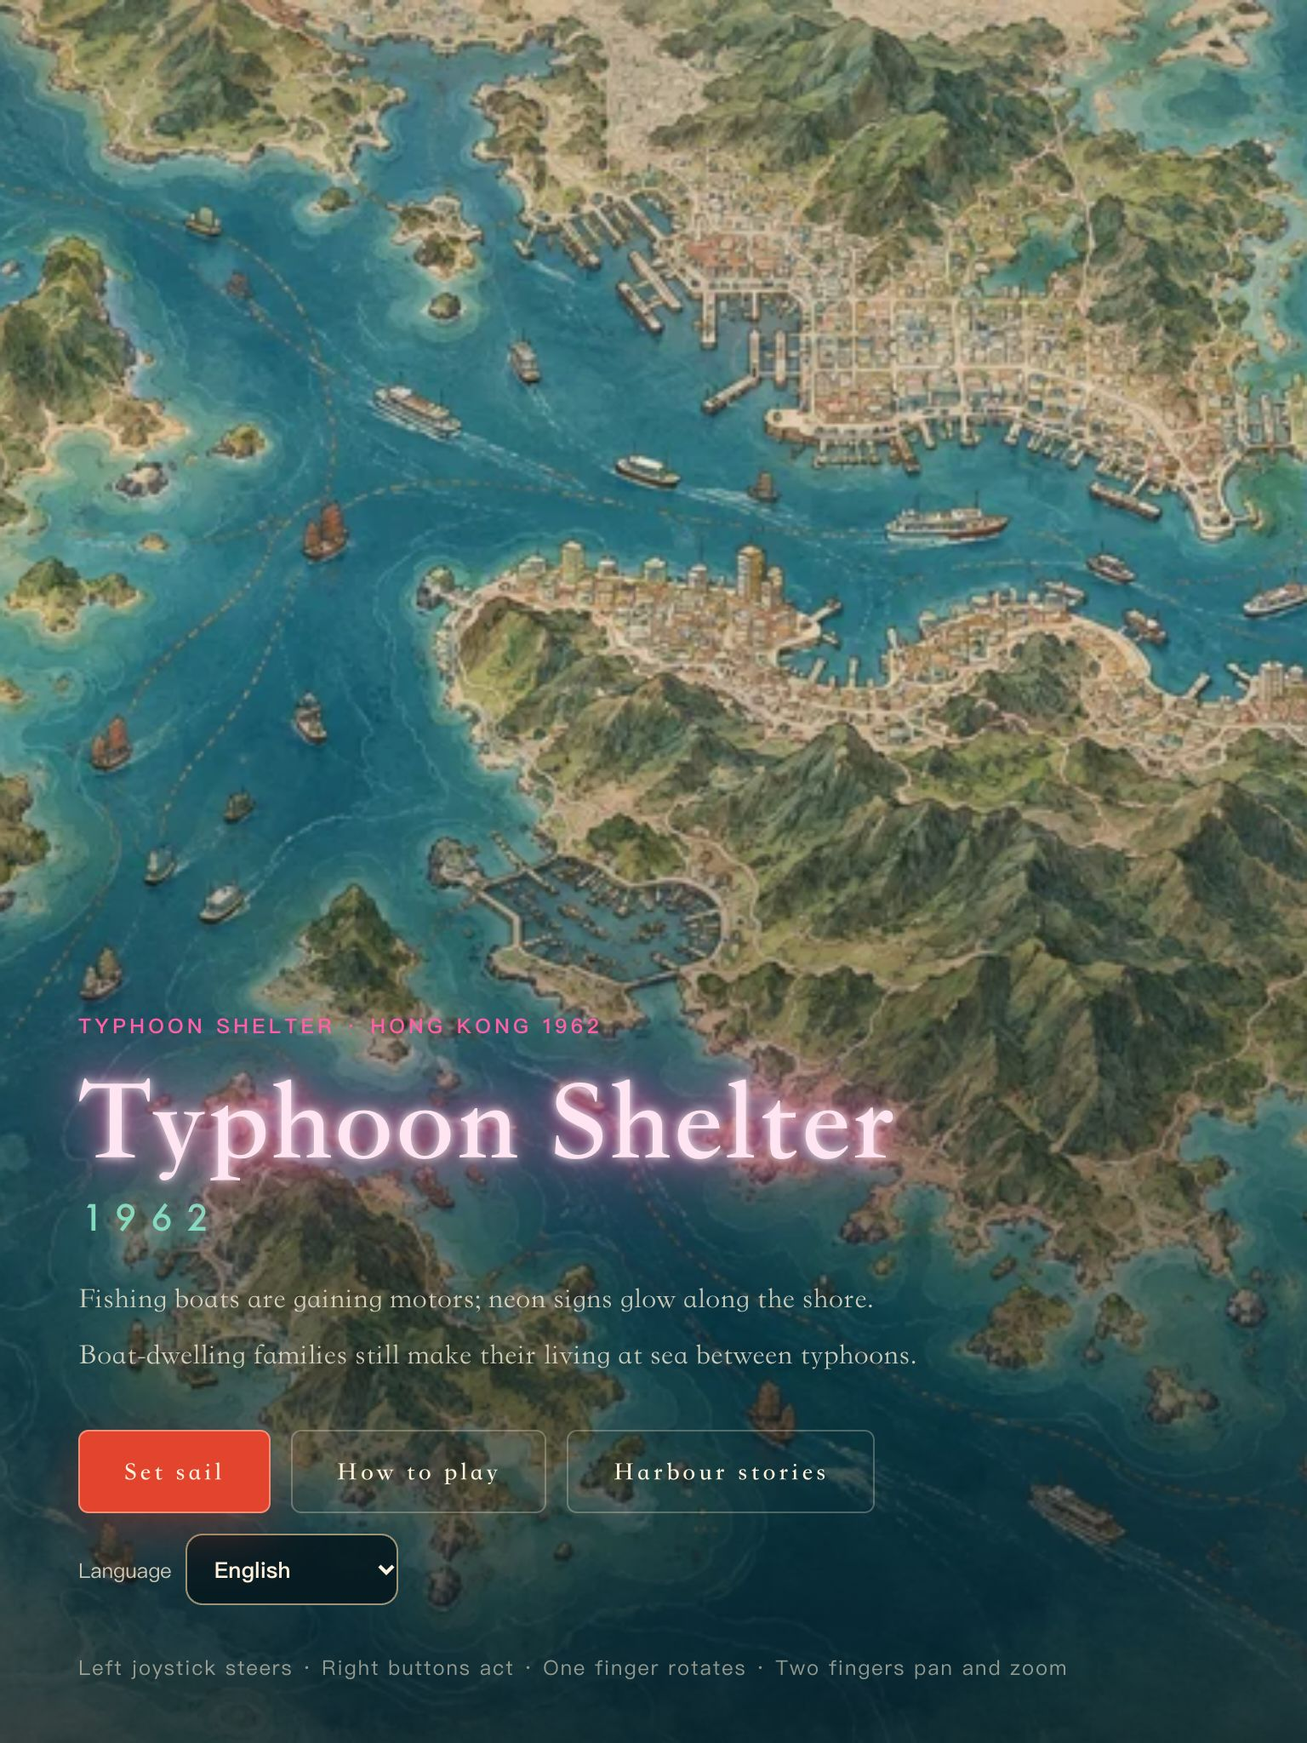
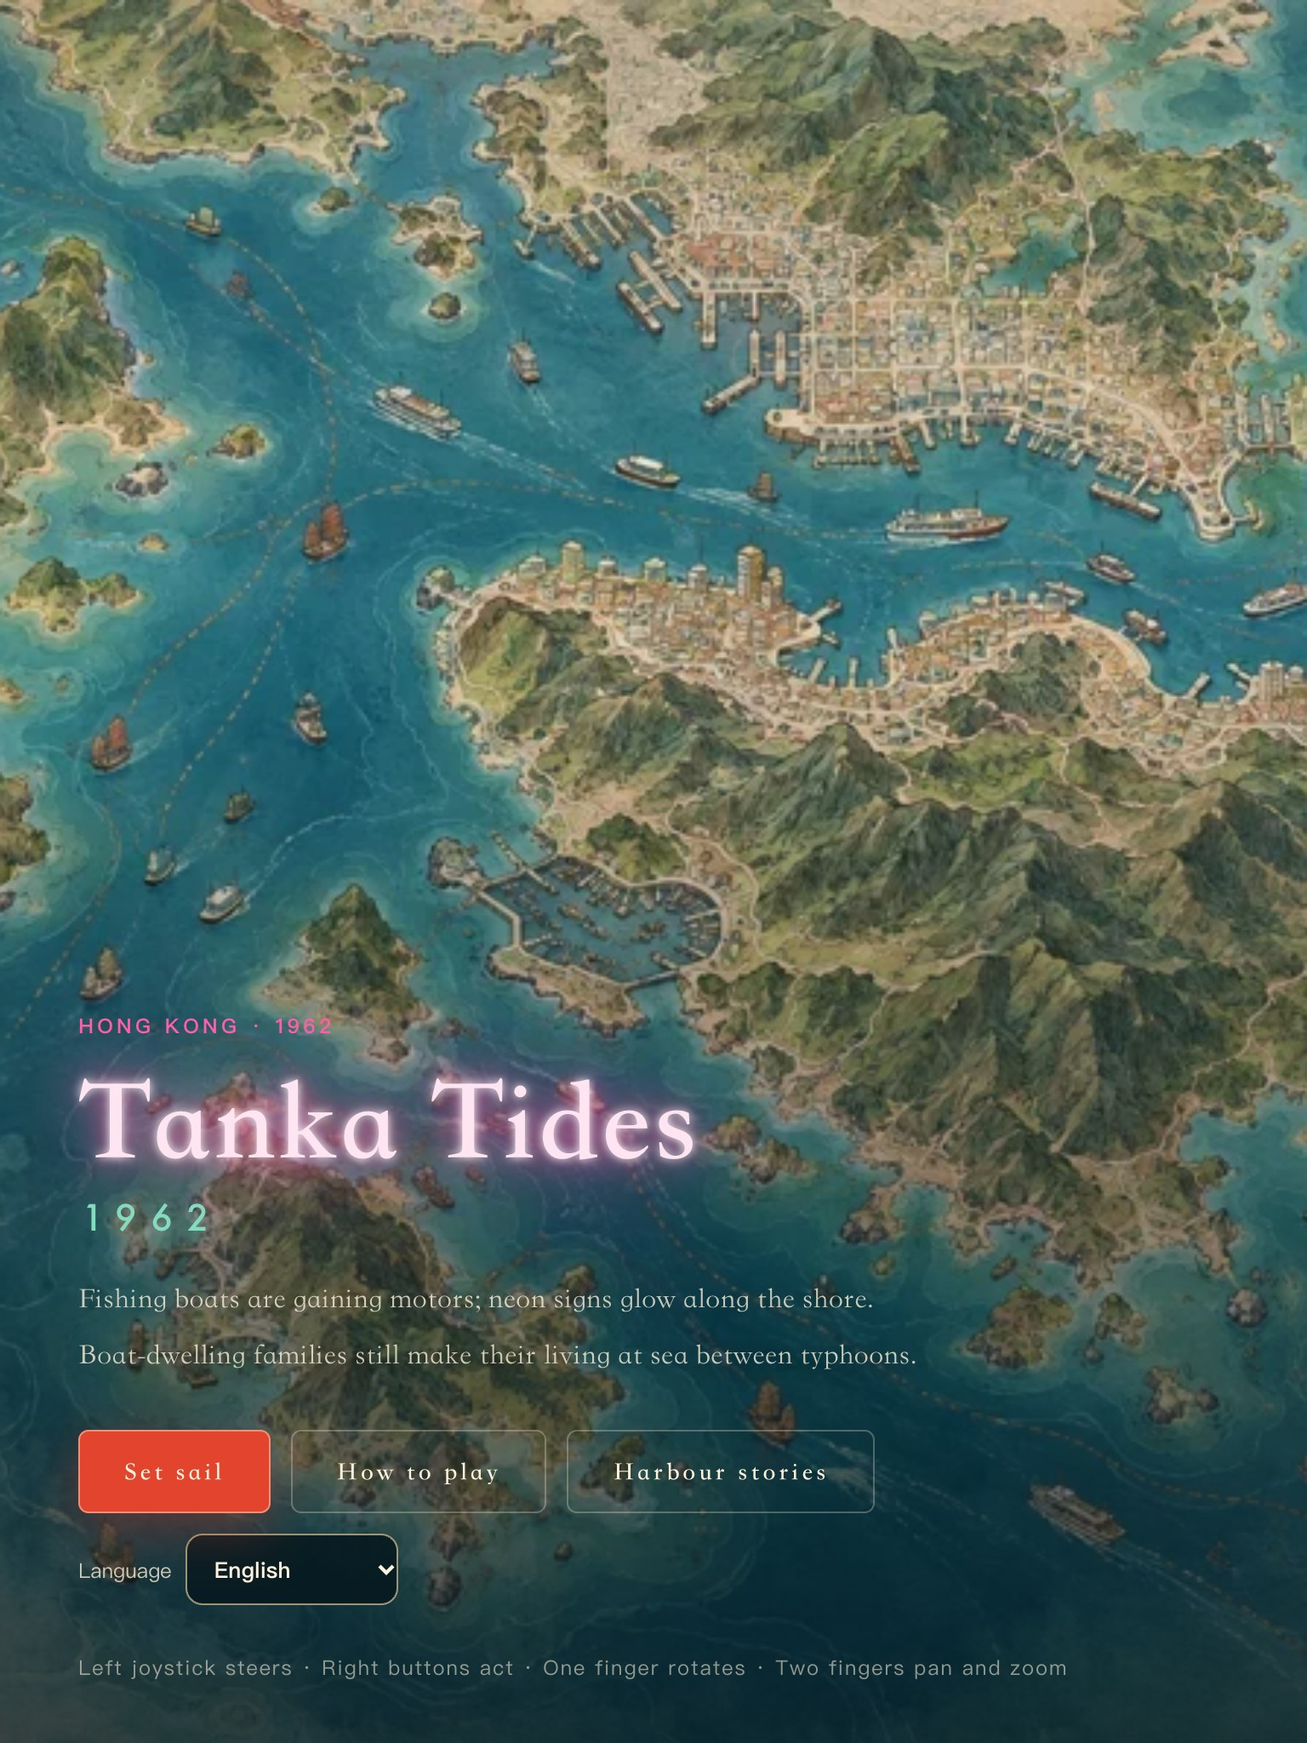
update the website

Changed region(s): [[0.0938, 0.5625, 0.6875, 0.6875], [0.0625, 0.5625, 0.25, 0.5938]]

diff --git a/index.html b/index.html
@@ -15,6 +15,7 @@
   <a class="brand" href="#top" aria-label="Tanka Tides 1962 home"><svg viewBox="0 0 64 64" aria-hidden="true"><rect width="64" height="64" rx="14" fill="#102226"/><path d="M6 46c10-6 18-6 26 0s16 6 26 0v10H6z" fill="#08262a"/><path d="M16 42h32l-4 6H20z" fill="#d8b07a"/><path d="M26 42l6-7 6 7" fill="#4f6e5e"/><rect x="30" y="16" width="3" height="16" rx="1" fill="none" stroke="#ff5fa8" stroke-width="2"/></svg>Tanka Tides 1962</a>
   <nav class="nav-links" aria-label="Page">
     <a href="#play">Play</a>
+    <a href="#faces">Faces</a>
     <a href="#harbour">Harbour</a>
     <a href="#ashore">Ashore</a>
     <a href="#screens">Screenshots</a>
@@ -24,8 +25,10 @@
 
 <main id="top">
   <section class="hero">
+    <div class="hero-bg" aria-hidden="true"><img src="media/hero-dusk.jpg" width="1800" height="1000" alt=""></div>
     <div class="hero-copy">
       <p class="kicker">iPhone &amp; iPad · Desktop coming soon</p>
+      <p class="cn-title" lang="zh-Hant">疍家漁歌</p>
       <h1>Between typhoons,<br><span class="hl">the boats go out.</span></h1>
       <p class="tag">Hong Kong, 1962.</p>
       <p class="lede">Fishing boats are gaining motors, and neon signs glow along the shore. Boat-dwelling families still make their living at sea. Steer a sampan through the typhoon shelter, fill the hold, and walk the harbour towns when you dock.</p>
@@ -34,12 +37,12 @@
         <a class="btn ghost" href="#screens">See the screens</a>
       </div>
       <ul class="badges" aria-label="Highlights">
-        <li>4 harbours</li><li>22 kinds of catch</li><li>Plays offline</li><li>5 languages</li>
+        <li>4 harbours</li><li>54 named faces</li><li>22 kinds of catch</li><li>Plays offline</li><li>5 languages</li>
       </ul>
     </div>
     <div class="hero-art" aria-hidden="true">
-      <figure class="device phone tilt-l"><img src="media/iphone-portrait-title.jpg" width="780" height="1688" alt=""></figure>
-      <figure class="device phone tilt-r"><img src="media/iphone-portrait-sea.jpg" width="780" height="1688" alt=""></figure>
+      <figure class="device phone tilt-l"><img src="media/iphone-portrait-sea.jpg" width="780" height="1688" alt=""></figure>
+      <figure class="device phone tilt-r"><img src="media/iphone-portrait-town.jpg" width="780" height="1688" alt=""></figure>
     </div>
   </section>
 
@@ -48,19 +51,49 @@
     <li><strong>22</strong><span>fish, shrimp, crab and squid to learn</span></li>
     <li><strong>8</strong><span>the typhoon signal that sends you in</span></li>
     <li><strong>5</strong><span>languages, including Cantonese</span></li>
-    <li><strong>$</strong><span>Hong Kong dollars, kept on the device</span></li>
+    <li><strong>54</strong><span>townsfolk, each with a name and a face</span></li>
   </ul>
 
   <section class="section" id="play">
     <p class="kicker">How a day goes</p>
     <h2>Motor out. Fill the hold. Come home.</h2>
-    <p class="intro">The left joystick steers. The buttons on the right cast, dock, light the lamp and reel. One finger orbits the camera. Two fingers pan and pinch to zoom. A keyboard works alongside the buttons.</p>
+    <p class="intro">The left joystick steers. The buttons on the right cast, dock, light the lamp and reel. One finger orbits the camera. Two fingers pan and pinch to zoom.</p>
     <div class="steps">
       <article><i aria-hidden="true">01</i><h3>Set sail</h3><p>The sampan has an outboard and a tiller. Open the throttle in open water, and ease off among the moored boats.</p></article>
       <article><i aria-hidden="true">02</i><h3>Fish</h3><p>Cast the net and wait for the haul. Or work the line: strike on the bite, and ease the reel when the nylon runs hot.</p></article>
       <article><i aria-hidden="true">03</i><h3>Sell</h3><p>Dock and walk ashore. The fish market buys the catch. The grocer sells rice, kerosene, carbide and ice.</p></article>
       <article><i aria-hidden="true">04</i><h3>Shelter</h3><p>Listen to the radio. A Signal No. 8 in open water works on the hull. Come in before the sea does.</p></article>
     </div>
+  </section>
+
+  <section class="section faces-section" id="faces">
+    <div class="faces-head">
+      <div>
+        <p class="kicker">Faces of the harbour</p>
+        <h2>Everyone ashore has a name.</h2>
+      </div>
+      <p class="intro">Fifty-four people live along the four harbours, each with a portrait of their own: hawkers and dockhands, an incense seller, a fortune teller, a dance-hall singer, and your own family aboard. What they say changes with the hour.</p>
+    </div>
+    <ul class="faces" aria-label="Some of the townsfolk">
+      <li><img src="media/faces/kau.jpg" width="359" height="360" alt="Uncle Kau, an old fisherman in a bamboo hat" loading="lazy"><b>Uncle Kau</b><span>Old fisherman</span></li>
+      <li><img src="media/faces/fung.jpg" width="359" height="360" alt="Sister Fung in a red qipao" loading="lazy"><b>Sister Fung</b><span>Dance-hall singer</span></li>
+      <li><img src="media/faces/grandmasui.jpg" width="359" height="360" alt="Grandma Sui" loading="lazy"><b>Grandma Sui</b><span>Incense seller</span></li>
+      <li><img src="media/faces/blindchan.jpg" width="359" height="360" alt="Blind Chan" loading="lazy"><b>Blind Chan</b><span>Fortune teller</span></li>
+      <li><img src="media/faces/bing.jpg" width="359" height="360" alt="Uncle Bing" loading="lazy"><b>Uncle Bing</b><span>Street hawker</span></li>
+      <li><img src="media/faces/ahwai.jpg" width="359" height="360" alt="Ah Wai" loading="lazy"><b>Ah Wai</b><span>Newspaper boy</span></li>
+      <li><img src="media/faces/tseung.jpg" width="359" height="360" alt="Brother Tseung" loading="lazy"><b>Brother Tseung</b><span>Bun maker</span></li>
+      <li><img src="media/faces/hou.jpg" width="359" height="360" alt="Auntie Hou" loading="lazy"><b>Auntie Hou</b><span>Stilt-house auntie</span></li>
+      <li><img src="media/faces/ahhoi.jpg" width="359" height="360" alt="Ah Hoi" loading="lazy"><b>Ah Hoi</b><span>Fish farmer</span></li>
+      <li><img src="media/faces/ahchoi.jpg" width="359" height="360" alt="Ah Choi" loading="lazy"><b>Ah Choi</b><span>Temple volunteer</span></li>
+      <li><img src="media/faces/biglo.jpg" width="359" height="360" alt="Big Lo" loading="lazy"><b>Big Lo</b><span>Lorry driver</span></li>
+      <li><img src="media/faces/ahlung.jpg" width="359" height="360" alt="Ah Lung" loading="lazy"><b>Ah Lung</b><span>Lion-dance pupil</span></li>
+    </ul>
+    <figure class="talk-shot">
+      <button class="shot frame" type="button" data-shot="media/iphone-landscape-talk.jpg" data-caption="iPhone landscape. Hopo, the sampan ferrywoman, stops for a word on the Aberdeen quay.">
+        <img src="media/iphone-landscape-talk.jpg" width="1688" height="780" alt="A conversation on the Aberdeen quay, with Hopo’s portrait in a lacquer-framed dialogue box." loading="lazy">
+      </button>
+      <figcaption>Walk up and tap <b>Talk</b>. Every conversation shows who you are speaking with.</figcaption>
+    </figure>
   </section>
 
   <section class="section" id="harbour">
@@ -110,7 +143,7 @@
   <section class="section" id="ashore">
     <p class="kicker">Ashore</p>
     <h2>Dock, and the harbour becomes a town.</h2>
-    <p class="intro">Stepping off the boat switches to a walkable street: tong lau, balconies, laundry poles and neon blades. Push the joystick to walk. Press A to talk or to step up to a counter. Time keeps running, and rain falls over the roofs.</p>
+    <p class="intro">Stepping off the boat switches to a walkable street: tong lau, balconies, laundry poles and neon blades. Push the joystick to walk, and tap <b>Talk</b> to speak with someone or step up to a counter. Time keeps running, and rain falls over the roofs.</p>
     <div class="shops">
       <article><h3>Fish market</h3><p>Sell the catch across the counter. Prices follow the fish and the day.</p></article>
       <article><h3>Grocer</h3><p>Rice, kerosene, carbide and ice. The four things a boat cannot skip.</p></article>
@@ -119,8 +152,8 @@
     </div>
     <div class="split" style="margin-top:36px">
       <figure>
-        <button class="shot frame" type="button" data-shot="media/ipad-portrait-town.jpg" data-caption="iPad portrait. Aberdeen on foot, in the evening.">
-          <img src="media/ipad-portrait-town.jpg" width="1536" height="2048" alt="Walking the Aberdeen waterfront on iPad in the evening." loading="lazy">
+        <button class="shot frame" type="button" data-shot="media/ipad-landscape-dinner.jpg" data-caption="iPad landscape, 19:00. Dinner aboard the family sampan: steamed fish and greens.">
+          <img src="media/ipad-landscape-dinner.jpg" width="2048" height="1536" alt="The family eating dinner around a low table on the sampan deck, with Ah Lin speaking." loading="lazy">
         </button>
       </figure>
       <div class="copy">
@@ -134,6 +167,19 @@
           <li>No account. The radio, the market and the weather all run offline</li>
         </ul>
       </div>
+    </div>
+  </section>
+
+  <section class="section closer" id="closer">
+    <figure class="closer-shot">
+      <button class="shot" type="button" data-shot="media/desktop-fisherman.jpg" data-caption="Close up at the tiller: the fisherman in his samfu and bamboo hat, one hand on the outboard.">
+        <img src="media/desktop-fisherman.jpg" width="1440" height="900" alt="The fisherman standing at the stern of the sampan with a hand on the tiller, open sea and islands behind." loading="lazy">
+      </button>
+    </figure>
+    <div class="closer-copy">
+      <p class="kicker">A closer look</p>
+      <h2>Wood, stone, cotton and bamboo.</h2>
+      <p class="intro">The planks have grain, the quays are laid in worn stone, and the hats are woven. People are built to move: they walk with bending knees, sit down to dinner on deck and lean on the tiller as you steer. Pinch in, and the harbour holds up.</p>
     </div>
   </section>
 
@@ -161,7 +207,7 @@
     </div>
 
     <div class="panel" role="tabpanel" id="panel-iphone" aria-labelledby="tab-iphone">
-      <p class="meta">iPhone only. Portrait and landscape.</p>
+      <p class="meta">iPhone. Portrait and landscape.</p>
       <div class="phone-stage">
         <figure class="device phone">
           <button class="shot" type="button" data-shot="media/iphone-portrait-title.jpg" data-caption="iPhone portrait. The title over the typhoon shelter.">
@@ -175,17 +221,29 @@
           </button>
           <figcaption>Morning · at sea</figcaption>
         </figure>
+        <figure class="device phone">
+          <button class="shot" type="button" data-shot="media/iphone-portrait-town.jpg" data-caption="iPhone portrait. Late afternoon on the Aberdeen quay.">
+            <img src="media/iphone-portrait-town.jpg" width="780" height="1688" alt="iPhone portrait of the fisherman and Hopo on the stone quay beside the temple." loading="lazy">
+          </button>
+          <figcaption>Ashore · Aberdeen</figcaption>
+        </figure>
         <figure class="device phone wide">
           <button class="shot" type="button" data-shot="media/iphone-landscape-night.jpg" data-caption="iPhone landscape, 21:30. Cloudy evening, with the carbide lamp ready.">
             <img src="media/iphone-landscape-night.jpg" width="1688" height="780" alt="iPhone landscape of the sampan at evening beside a dark shore." loading="lazy">
           </button>
           <figcaption>Landscape · evening</figcaption>
         </figure>
+        <figure class="device phone wide">
+          <button class="shot" type="button" data-shot="media/iphone-landscape-talk.jpg" data-caption="iPhone landscape. A word with Hopo on the quay.">
+            <img src="media/iphone-landscape-talk.jpg" width="1688" height="780" alt="iPhone landscape conversation with Hopo, her portrait beside the dialogue." loading="lazy">
+          </button>
+          <figcaption>Landscape · conversation</figcaption>
+        </figure>
       </div>
     </div>
 
     <div class="panel" role="tabpanel" id="panel-ipad" aria-labelledby="tab-ipad" hidden>
-      <p class="meta">iPad only. Landscape and portrait.</p>
+      <p class="meta">iPad. Landscape and portrait.</p>
       <div class="ipad-stage">
         <figure class="device">
           <button class="shot" type="button" data-shot="media/ipad-landscape-sea.jpg" data-caption="iPad landscape in the morning, out on the harbour.">
@@ -198,6 +256,18 @@
             <img src="media/ipad-landscape-night.jpg" width="2048" height="1536" alt="iPad landscape of the sampan at evening, with a lit boat in the distance." loading="lazy">
           </button>
           <figcaption>Landscape · evening</figcaption>
+        </figure>
+        <figure class="device">
+          <button class="shot" type="button" data-shot="media/ipad-landscape-dinner.jpg" data-caption="iPad landscape, 19:00. Dinner aboard the family sampan.">
+            <img src="media/ipad-landscape-dinner.jpg" width="2048" height="1536" alt="iPad landscape of the family at dinner on the sampan deck." loading="lazy">
+          </button>
+          <figcaption>Landscape · dinner aboard</figcaption>
+        </figure>
+        <figure class="device">
+          <button class="shot" type="button" data-shot="media/desktop-fisherman.jpg" data-caption="Close up at the tiller.">
+            <img src="media/desktop-fisherman.jpg" width="1440" height="900" alt="Close-up of the fisherman at the tiller." loading="lazy">
+          </button>
+          <figcaption>Close up · at the tiller</figcaption>
         </figure>
       </div>
       <div class="ipad-ports">

diff --git a/styles.css b/styles.css
@@ -54,7 +54,12 @@ button.store svg { width: 20px; height: 20px; }
 .btn.ghost { background: transparent; color: var(--ink); border: 1.5px solid var(--line); }
 .btn.ghost:hover { background: rgba(253, 243, 220, 0.06); }
 
-.hero { display: grid; grid-template-columns: 1.05fr 0.95fr; gap: 36px; align-items: center; width: var(--wide); margin: 0 auto; padding: 56px 0 28px; }
+.hero { position: relative; isolation: isolate; display: grid; grid-template-columns: 1.05fr 0.95fr; gap: 36px; align-items: center; width: var(--wide); margin: 0 auto; padding: 56px 0 28px; }
+/* Full-bleed dusk harbour behind the hero, fading into the page. */
+.hero-bg { position: absolute; z-index: -1; top: 0; bottom: 0; left: 50%; width: 100vw; transform: translateX(-50%); overflow: hidden; -webkit-mask-image: linear-gradient(180deg, #000 62%, transparent 100%); mask-image: linear-gradient(180deg, #000 62%, transparent 100%); }
+.hero-bg img { width: 100%; height: 100%; object-fit: cover; object-position: 60% 35%; opacity: 0.85; }
+.hero-bg::after { content: ""; position: absolute; inset: 0; background: linear-gradient(90deg, rgba(7, 20, 22, 0.95) 6%, rgba(7, 20, 22, 0.62) 46%, rgba(7, 20, 22, 0.1) 100%), linear-gradient(180deg, rgba(7, 20, 22, 0.3) 0%, transparent 28%); }
+.cn-title { margin: 0 0 10px; font: 500 22px/1 var(--serif); letter-spacing: 0.32em; color: var(--gold); }
 .hero h1 { margin: 0; font-size: clamp(48px, 6vw, 82px); line-height: 0.96; }
 .hl { color: var(--accent); text-shadow: 0 0 24px rgba(255, 95, 168, 0.35); }
 .tag { margin: 18px 0 0; font: italic 22px/1.3 var(--serif); color: var(--gold); }
@@ -70,7 +75,7 @@ button.store svg { width: 20px; height: 20px; }
 .hero-art .tilt-l { left: 8%; top: 4%; transform: rotate(-6deg); z-index: 2; }
 .hero-art .tilt-r { right: 4%; top: 12%; width: min(42%, 250px); transform: rotate(5deg); z-index: 1; }
 
-.facts { width: var(--wide); margin: 12px auto 0; padding: 0; list-style: none; display: grid; grid-template-columns: repeat(5, 1fr); gap: 12px; }
+.facts { position: relative; z-index: 1; width: var(--wide); margin: 12px auto 0; padding: 0; list-style: none; display: grid; grid-template-columns: repeat(5, 1fr); gap: 12px; }
 .facts li { padding: 18px 16px 16px; background: var(--bg-raise); border: 1px solid var(--line); border-radius: 18px; }
 .facts strong { display: block; font: 500 34px/1 var(--serif); letter-spacing: -0.03em; color: var(--gold); }
 .facts span { display: block; margin-top: 6px; font-size: 14px; color: var(--muted); line-height: 1.35; }
@@ -120,7 +125,9 @@ figcaption b { color: var(--ink); }
 .pill { margin-left: 8px; padding: 3px 8px; border-radius: 999px; background: var(--gold); color: #1a1408; font-size: 11px; letter-spacing: 0.04em; text-transform: uppercase; }
 .tabs [aria-selected="true"] .pill { background: var(--accent); color: #1a0c12; }
 .meta { color: var(--muted); font-size: 14px; margin: 0 0 16px; }
-.phone-stage { display: grid; grid-template-columns: 1fr 1fr 2.1fr; gap: 18px; align-items: end; }
+.phone-stage { display: grid; grid-template-columns: repeat(6, 1fr); gap: 18px; align-items: end; }
+.phone-stage .device { grid-column: span 2; }
+.phone-stage .device.wide { grid-column: span 3; }
 .ipad-stage { display: grid; grid-template-columns: 1fr 1fr; gap: 18px; }
 .ipad-ports { display: grid; grid-template-columns: repeat(2, minmax(0, 280px)); justify-content: center; gap: 22px; margin-top: 22px; }
 .gallery { display: grid; grid-template-columns: 1fr 1fr; gap: 16px; }
@@ -157,11 +164,28 @@ footer p { margin: 0; max-width: 40rem; }
 .legal summary { cursor: pointer; font-weight: 650; color: var(--ink); }
 .legal details p { margin: 10px 0 4px; }
 
+/* Faces of the harbour: portraits in the same lacquer-and-gold frame as the game's dialogue. */
+.faces-head { display: grid; grid-template-columns: 0.9fr 1.1fr; gap: 32px; align-items: end; margin-bottom: 26px; }
+.faces-head .intro { margin: 0; }
+.faces { list-style: none; padding: 0; margin: 0; display: grid; grid-template-columns: repeat(6, 1fr); gap: 14px; }
+.faces li { position: relative; padding: 7px 7px 12px; border-radius: 14px; background: linear-gradient(180deg, #3a1d14, #22100c); border: 1.5px solid #c9a35a; box-shadow: 0 10px 26px rgba(0, 0, 0, 0.35), inset 0 0 0 1px rgba(255, 220, 150, 0.12); text-align: center; }
+.faces img { width: 100%; aspect-ratio: 1; object-fit: cover; border-radius: 9px; border: 1px solid rgba(231, 201, 138, 0.45); }
+.faces b { display: block; margin-top: 9px; font: 500 16px/1.15 var(--serif); color: #f6e7c4; letter-spacing: 0.01em; }
+.faces span { display: block; margin-top: 3px; font-size: 12px; color: rgba(246, 231, 196, 0.62); letter-spacing: 0.04em; }
+.talk-shot { margin-top: 30px; }
+
+/* A closer look: the scene full width, copy laid over its lower edge. */
+.closer { position: relative; }
+.closer-shot img { width: 100%; aspect-ratio: 1440 / 900; object-fit: cover; border-radius: 22px; box-shadow: var(--shadow); }
+.closer-copy { position: relative; width: min(640px, calc(100% - 32px)); margin: -120px 0 0 32px; padding: 28px 30px 26px; border-radius: 20px; background: rgba(7, 20, 22, 0.9); border: 1px solid var(--line); backdrop-filter: blur(12px); -webkit-backdrop-filter: blur(12px); }
+.closer-copy .intro { margin: 0; }
+
 @media (max-width: 980px) {
+  .faces { grid-template-columns: repeat(4, 1fr); }
+  .faces-head { grid-template-columns: 1fr; gap: 6px; }
   .facts { grid-template-columns: repeat(3, 1fr); }
   .steps, .shops { grid-template-columns: 1fr 1fr; }
-  .phone-stage { grid-template-columns: 1fr 1fr; }
-  .phone-stage .wide { grid-column: 1 / -1; }
+  .phone-stage .device.wide { grid-column: 1 / -1; }
 }
 @media (max-width: 800px) {
   :root { --wide: calc(100% - 32px); }
@@ -170,6 +194,8 @@ footer p { margin: 0; max-width: 40rem; }
   .hero, .split, .split.flip, .harbours, .ipad-stage, .gallery { grid-template-columns: 1fr; }
   .hero { padding-top: 32px; }
   .hero-art { height: 520px; }
+  .hero-bg img { opacity: 0.4; }
+  .hero-bg::after { background: linear-gradient(180deg, rgba(7, 20, 22, 0.6) 0%, rgba(7, 20, 22, 0.8) 100%); }
   .facts { grid-template-columns: 1fr 1fr; }
   .facts li:last-child { grid-column: 1 / -1; }
   .ipad-ports { grid-template-columns: 1fr 1fr; }
@@ -177,7 +203,12 @@ footer p { margin: 0; max-width: 40rem; }
   footer { flex-direction: column; }
 }
 @media (max-width: 560px) {
-  .steps, .shops, .phone-stage, .ipad-ports { grid-template-columns: 1fr; }
+  .steps, .shops, .ipad-ports { grid-template-columns: 1fr; }
+  .phone-stage { grid-template-columns: 1fr 1fr; }
+  .phone-stage .device { grid-column: span 1; }
+  .faces { grid-template-columns: repeat(3, 1fr); gap: 10px; }
+  .faces b { font-size: 14px; }
+  .closer-copy { width: auto; margin: 14px 0 0; }
   .hero-art { height: 460px; }
 }
 @media (prefers-reduced-motion: reduce) { html { scroll-behavior: auto; } }
